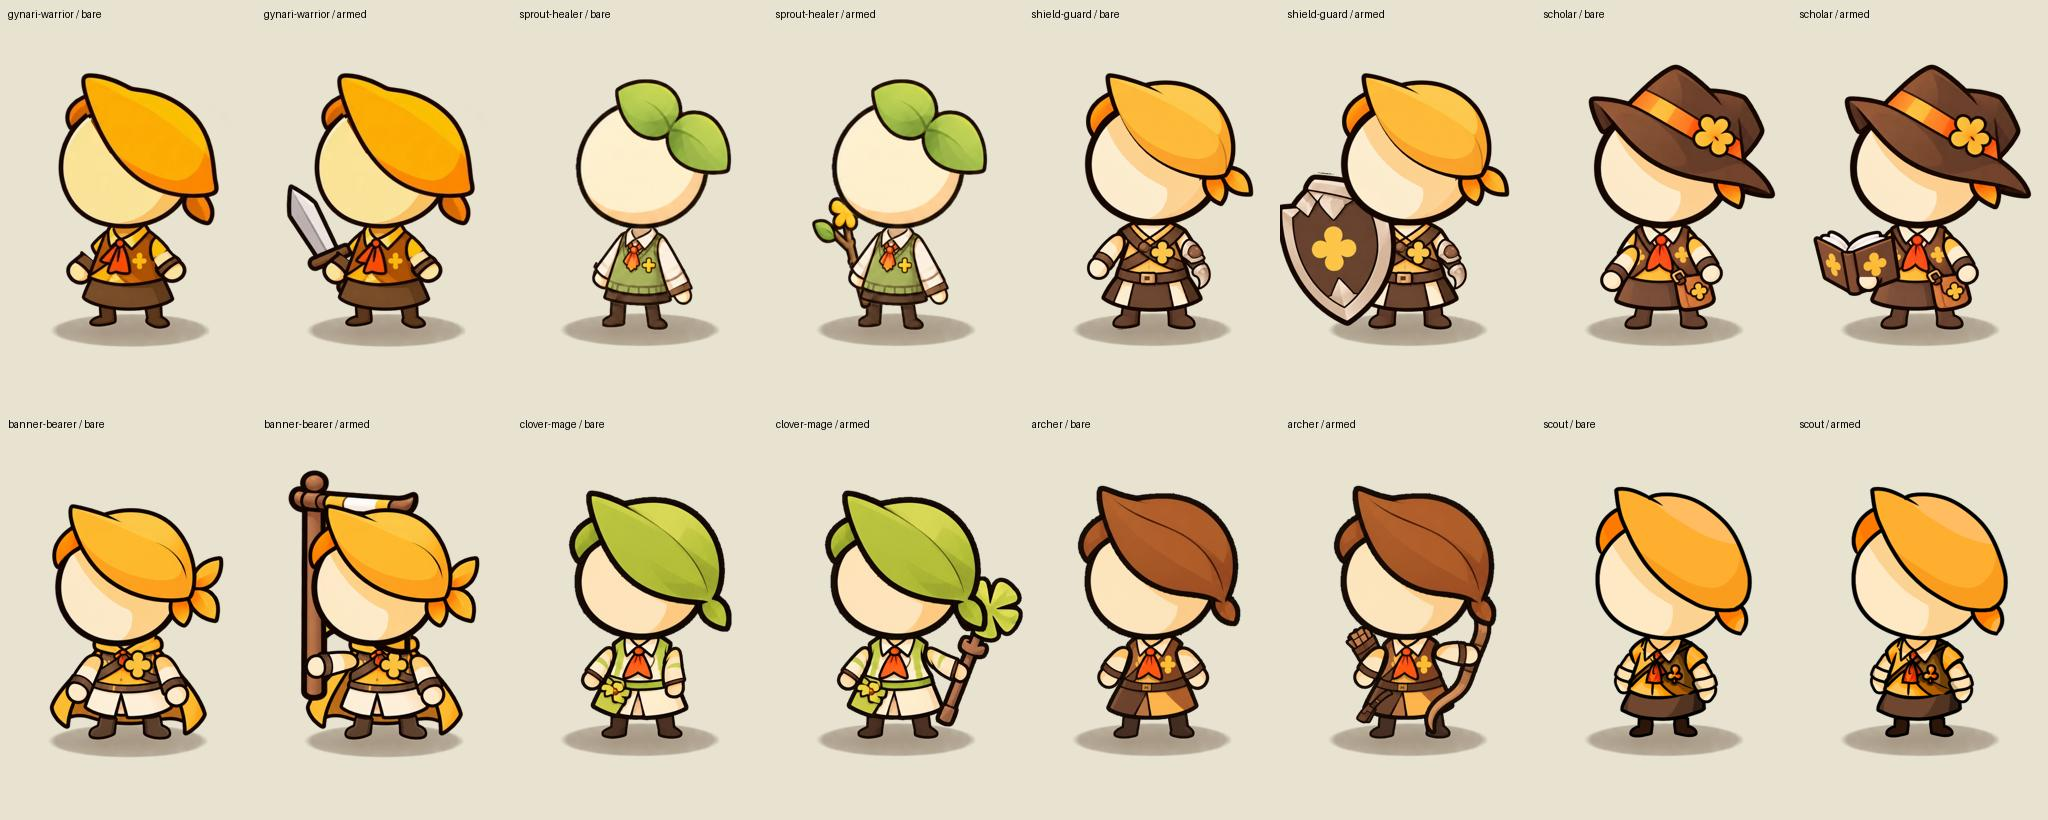
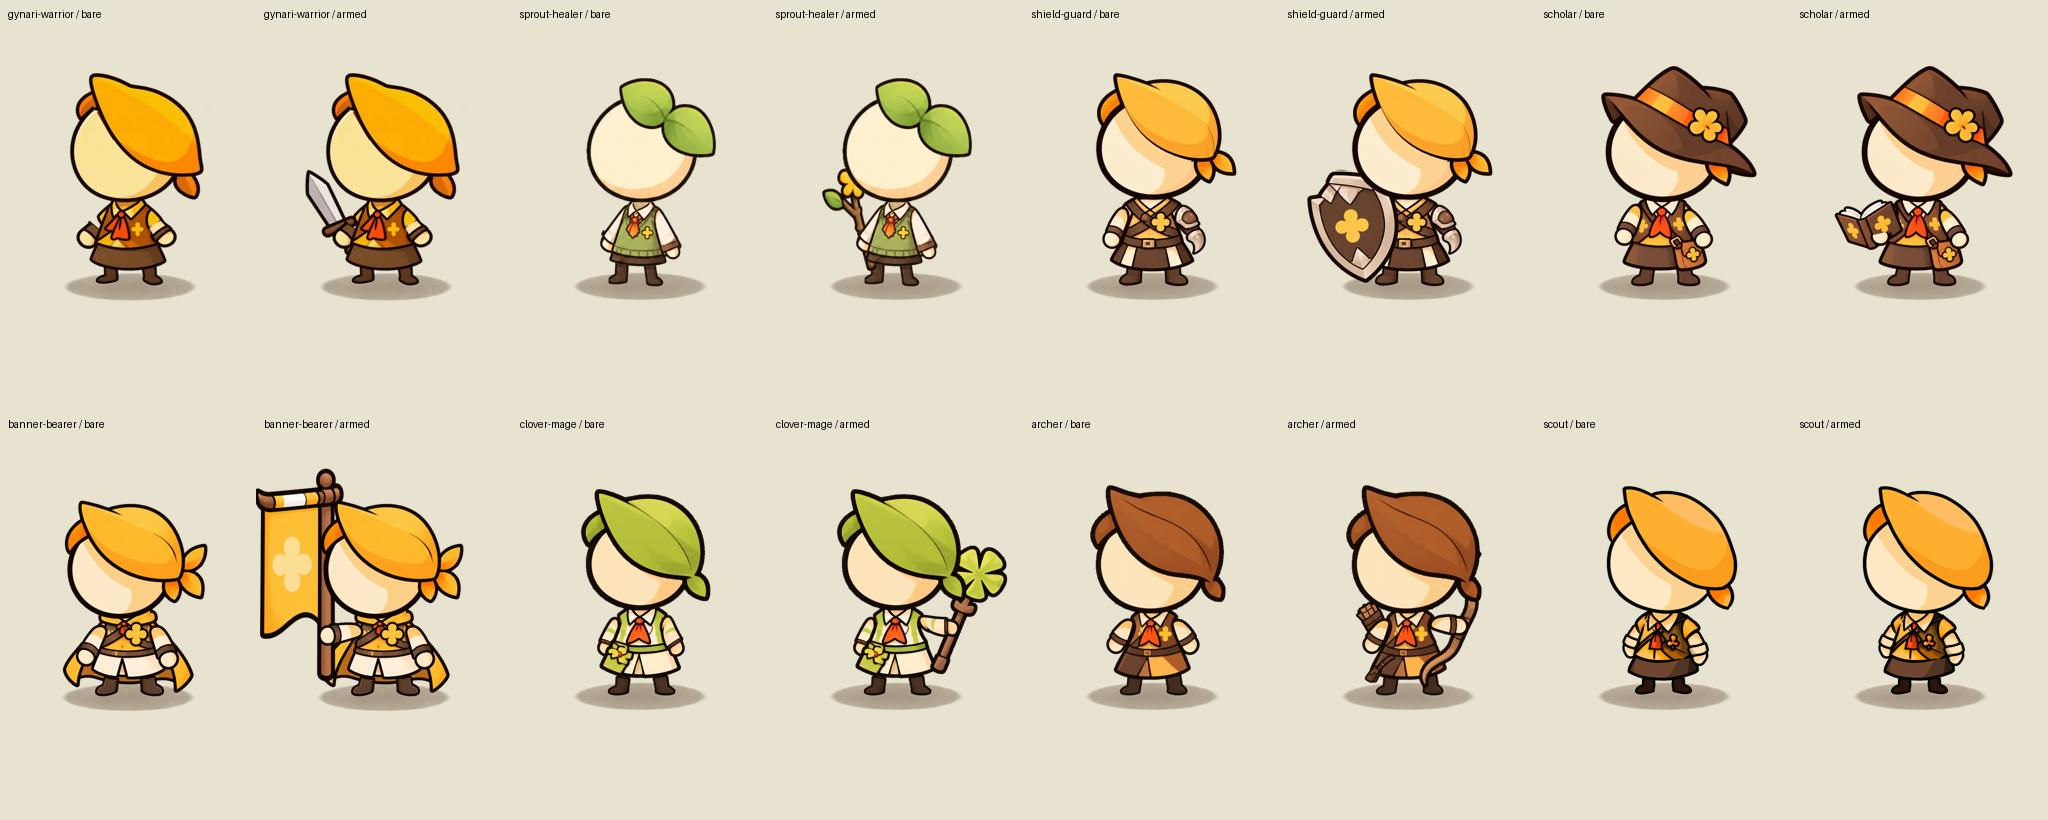
fix: apply second rig edits and balance equipment proportions and grips

diff --git a/tests/selected-pack-browser.py b/tests/selected-pack-browser.py
@@ -15,14 +15,14 @@ with sync_playwright() as p:
    card.locator('.state').select_option(state);card.locator('.facing').select_option('1');page.wait_for_timeout(50);card.locator('.facing').select_option('-1')
  failures=page.evaluate('''async()=>{
  const {loadCatalog}=await import('/src/characters/catalog.mjs');const {createCharacter,equip,layoutCharacter}=await import('/src/characters/engine.mjs');const lib=await loadCatalog(),failures=[];
- for(const [id,d] of Object.entries(lib.characters).filter(([id])=>!['gynari-warrior','sprout-healer'].includes(id)))for(const state of ['idle','walk','attack','hit']){
- const c=createCharacter(lib,id);Object.assign(c.animation,{state,elapsed:.2});const l=layoutCharacter(lib,c,.2),masks={};
+ for(const [id,d] of Object.entries(lib.characters).filter(([id])=>!['gynari-warrior','sprout-healer'].includes(id)))for(const state of ['idle','walk','attack','hit'])for(const armed of [false,true]){
+ const c=createCharacter(lib,id);Object.assign(c.animation,{state,elapsed:.2});if(armed&&d.recommendedWeapon)equip(lib,c,d.recommendedWeapon,d.recommendedHand||'left');const l=layoutCharacter(lib,c,.2),masks={};
  for(const name of ['head','body','hand_back','hand_front','leg_back','leg_front']){
  const cv=document.createElement('canvas');cv.width=600;cv.height=700;const ctx=cv.getContext('2d'),p=d.rig.parts[name],draw=l.draws.find(x=>x.part===name);ctx.translate(300,650);ctx.scale(.5,.5);ctx.translate(-d.rig.foot[0],-d.rig.foot[1]);ctx.transform(...draw.matrix);ctx.drawImage(d.images[name],-p.w*p.origin[0],-p.h*p.origin[1],p.w,p.h);masks[name]=ctx.getImageData(0,0,600,700).data;
  }
  for(const name of ['head','hand_back','hand_front','leg_back','leg_front']){
  let overlap=0;const a=masks[name],b=masks.body;for(let i=3;i<a.length;i+=4)if(a[i]>100&&b[i]>100)overlap++;
- if(overlap<10)failures.push(`${id}/${state}: ${name} detached (${overlap} pixels overlap)`);
+ if(overlap<10)failures.push(`${id}/${state}/${armed?'armed':'bare'}: ${name} detached (${overlap} pixels overlap)`);
  }
  }
  return failures;

diff --git a/tests/equipment-grips-browser.py b/tests/equipment-grips-browser.py
@@ -1,0 +1,21 @@
+"""Painted grip anchors must land on solid handles, including support hands."""
+import os
+from playwright.sync_api import sync_playwright
+BASE=os.environ.get('BASE_URL','http://127.0.0.1:8010')
+with sync_playwright() as p:
+ b=p.chromium.launch(executable_path=os.environ.get('CHROMIUM','/usr/bin/chromium'),args=['--no-sandbox'])
+ page=b.new_page();page.goto(BASE+'/characters.html')
+ failures=page.evaluate('''async()=>{
+ const{loadCatalog}=await import('/src/characters/catalog.mjs');const lib=await loadCatalog(),failures=[];
+ for(const[id,e]of Object.entries(lib.equipment)){
+  const cv=document.createElement('canvas');cv.width=e.image.naturalWidth;cv.height=e.image.naturalHeight;
+  const ctx=cv.getContext('2d');ctx.drawImage(e.image,0,0);
+  for(const key of ['grip','secondaryGrip'])if(e[key]){
+   const[x,y]=e[key].map((v,i)=>Math.round(v*((i?cv.height:cv.width)-1)));
+   if(ctx.getImageData(x,y,1,1).data[3]<128)failures.push(`${id}/${key}: grip is outside the painted handle`);
+  }
+ }
+ return failures;
+ }''')
+ assert not failures,'\n'.join(failures)
+ b.close();print('PASS painted equipment handles: primary and support grips remain inside artwork')

diff --git a/docs/rig-editor.md b/docs/rig-editor.md
@@ -32,8 +32,12 @@ node --test tests/*.test.mjs
 
 ## 적용된 수동 조정과 장착점
 
-`doragami-all-rig-edits-1.json`의 8종 조정값을 반영했습니다. 깃발기수와 궁수는 서로 반대쪽으로 이동한 손 파츠를 좌우 역할에 맞춰 다시 연결하고, 파츠의 위치·크기·정적 회전과 연결된 애니메이션 피벗을 함께 유지했습니다. 깃대의 손잡이는 천에서 기둥으로, 활은 감긴 손잡이로 옮겼으며 깃발·활·마법봉의 장착 자세를 교정했습니다.
+`doragami-all-rig-edits-2.json`의 8종 조정값을 반영했습니다. 얼굴·머리장식·몸통·손·다리 파츠의 위치·크기·회전은 업로드 값 그대로 유지합니다. 검·방패·책·활의 크기를 줄이고, 새싹 지팡이와 마법봉의 길이를 조정했습니다. 깃대의 손잡이는 기둥에, 활은 감긴 손잡이에 연결하며 마법봉의 보조 손잡이도 실제 막대 위에 놓습니다. 새 몸통 위치에 맞춰 클로버마법사의 보행 시 다리는 상체의 수직 움직임을 따라갑니다.
 
 장착점의 선택적 `rotation`은 손바닥 위치를 유지하면서 장비의 기준 방향만 보정합니다. 파츠의 정적 회전 뒤에 적용되고 팔 애니메이션은 계속 따라갑니다. 새 장비나 캐릭터의 보정은 엔진 분기 대신 리그의 `sockets`와 장비 설정에 기록합니다.
+
+장비의 선택적 `socketMirrors: {left: true, right: false}`는 손잡이를 고정한 채 장비를 손별로 반전합니다. 깃발이 든 손의 바깥쪽으로 펼쳐지도록 사용하며 양손의 보조 손잡이 계산에도 같은 반전이 적용됩니다. 깃발기수의 연구실 미리보기는 펼쳐진 깃발이 잘리지 않도록 표시 배율을 조정합니다. 전장 크기는 유지합니다.
+
+추가 검증: `BASE_URL=http://127.0.0.1:8010 python3 tests/equipment-grips-browser.py`. 실제 장비 이미지에서 주·보조 손잡이 좌표가 투명 영역을 벗어나지 않는지 검사합니다. 최신 맨손·권장 장착 렌더링은 `rig-hand-equipment-review.jpg`에 보관합니다.
 
 이전 임시 저장은 예전 좌우 파츠 경로를 담고 있을 수 있습니다. 최신 교정 JSON을 불러오거나 원본에서 시작하면 현재 리그로 편집할 수 있습니다.

diff --git a/README.md b/README.md
@@ -36,6 +36,7 @@ BASE_URL=https://your-static-host.example python3 tests/mobile-layout.py
 BASE_URL=https://your-static-host.example python3 tests/rig-browser.py
 BASE_URL=https://your-static-host.example python3 tests/characters-browser.py
 BASE_URL=https://your-static-host.example python3 tests/rig-editor-browser.py
+BASE_URL=https://your-static-host.example python3 tests/equipment-grips-browser.py
 ```
 
 브라우저 검증은 기본적으로 `/usr/bin/chromium`을 사용합니다. 다른 설치 경로는 `CHROMIUM`, 호스팅 주소는 `BASE_URL` 환경 변수로 지정할 수 있습니다. 데스크톱과 모바일 터치에서 소환·선택·실제 보행·공격·피격·드래그·핀치·초기화, 지형 변경, 이미지 누락 안내를 검사합니다. 모바일 레이아웃 검증은 다섯 화면 크기에서 확대·이동해도 전장이 헤더·조작부 영역을 침범하지 않는지, 화면 높이가 바뀌어도 배치가 유지되는지 검사합니다.
